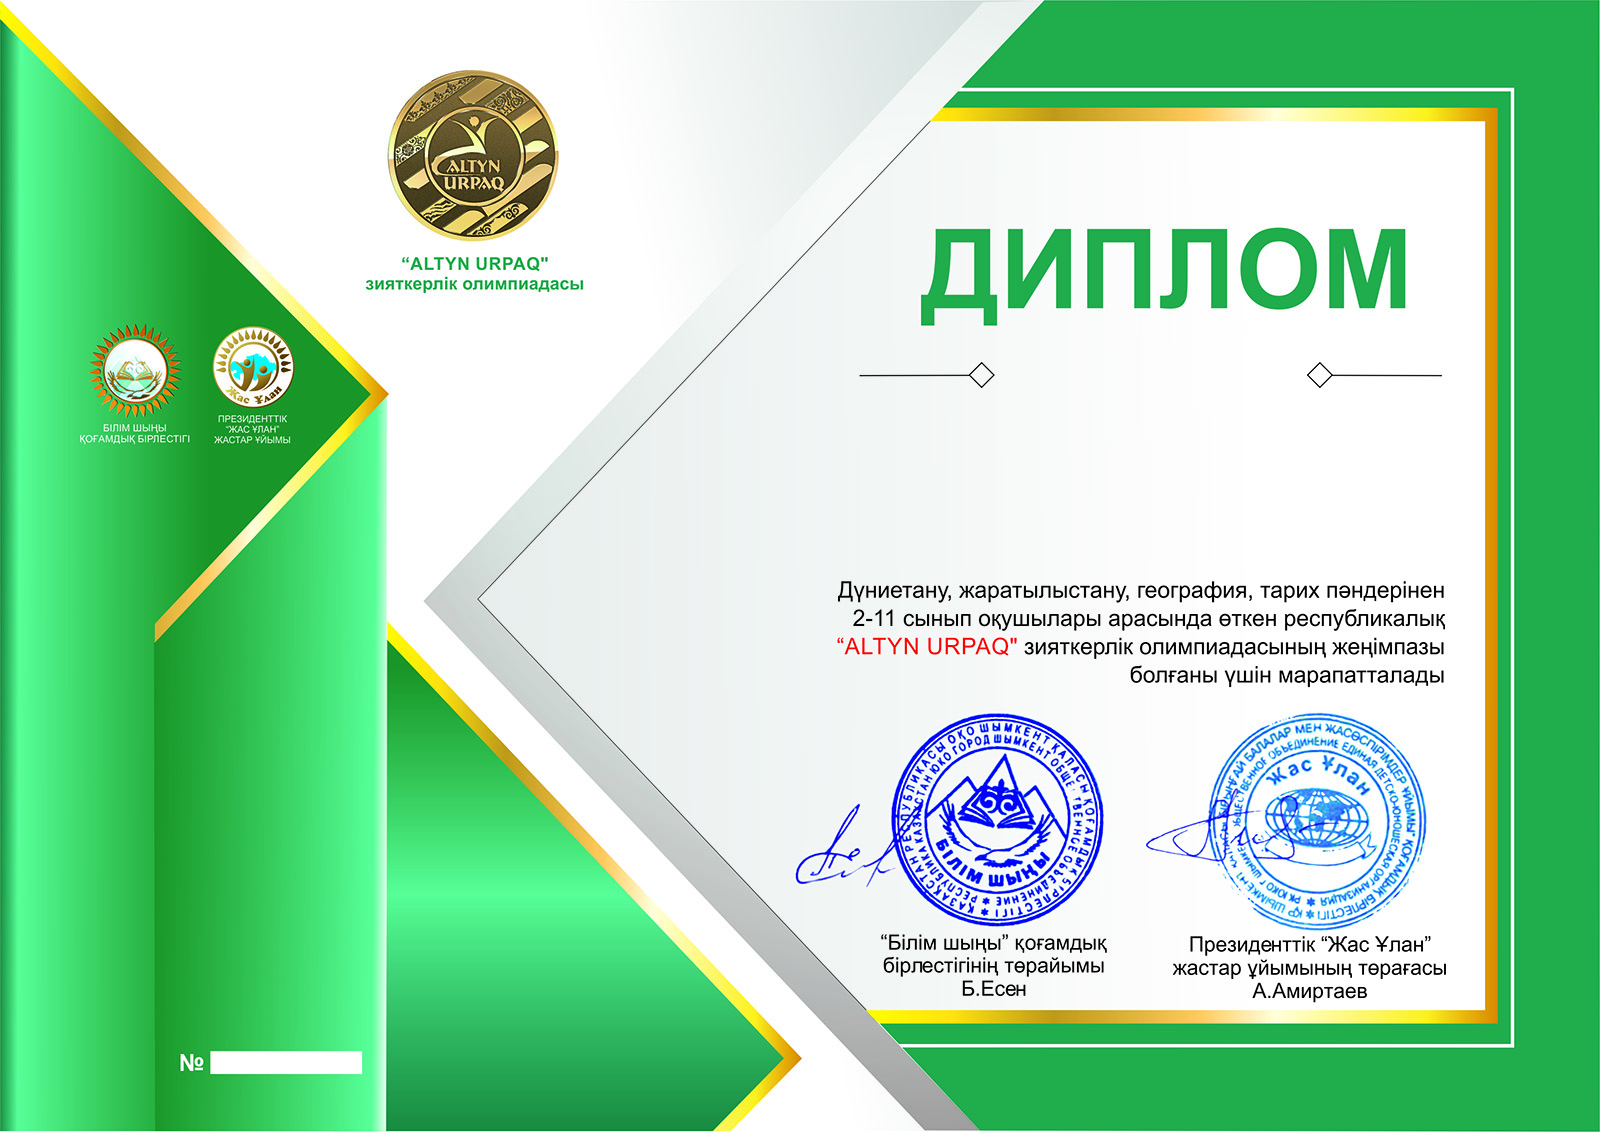
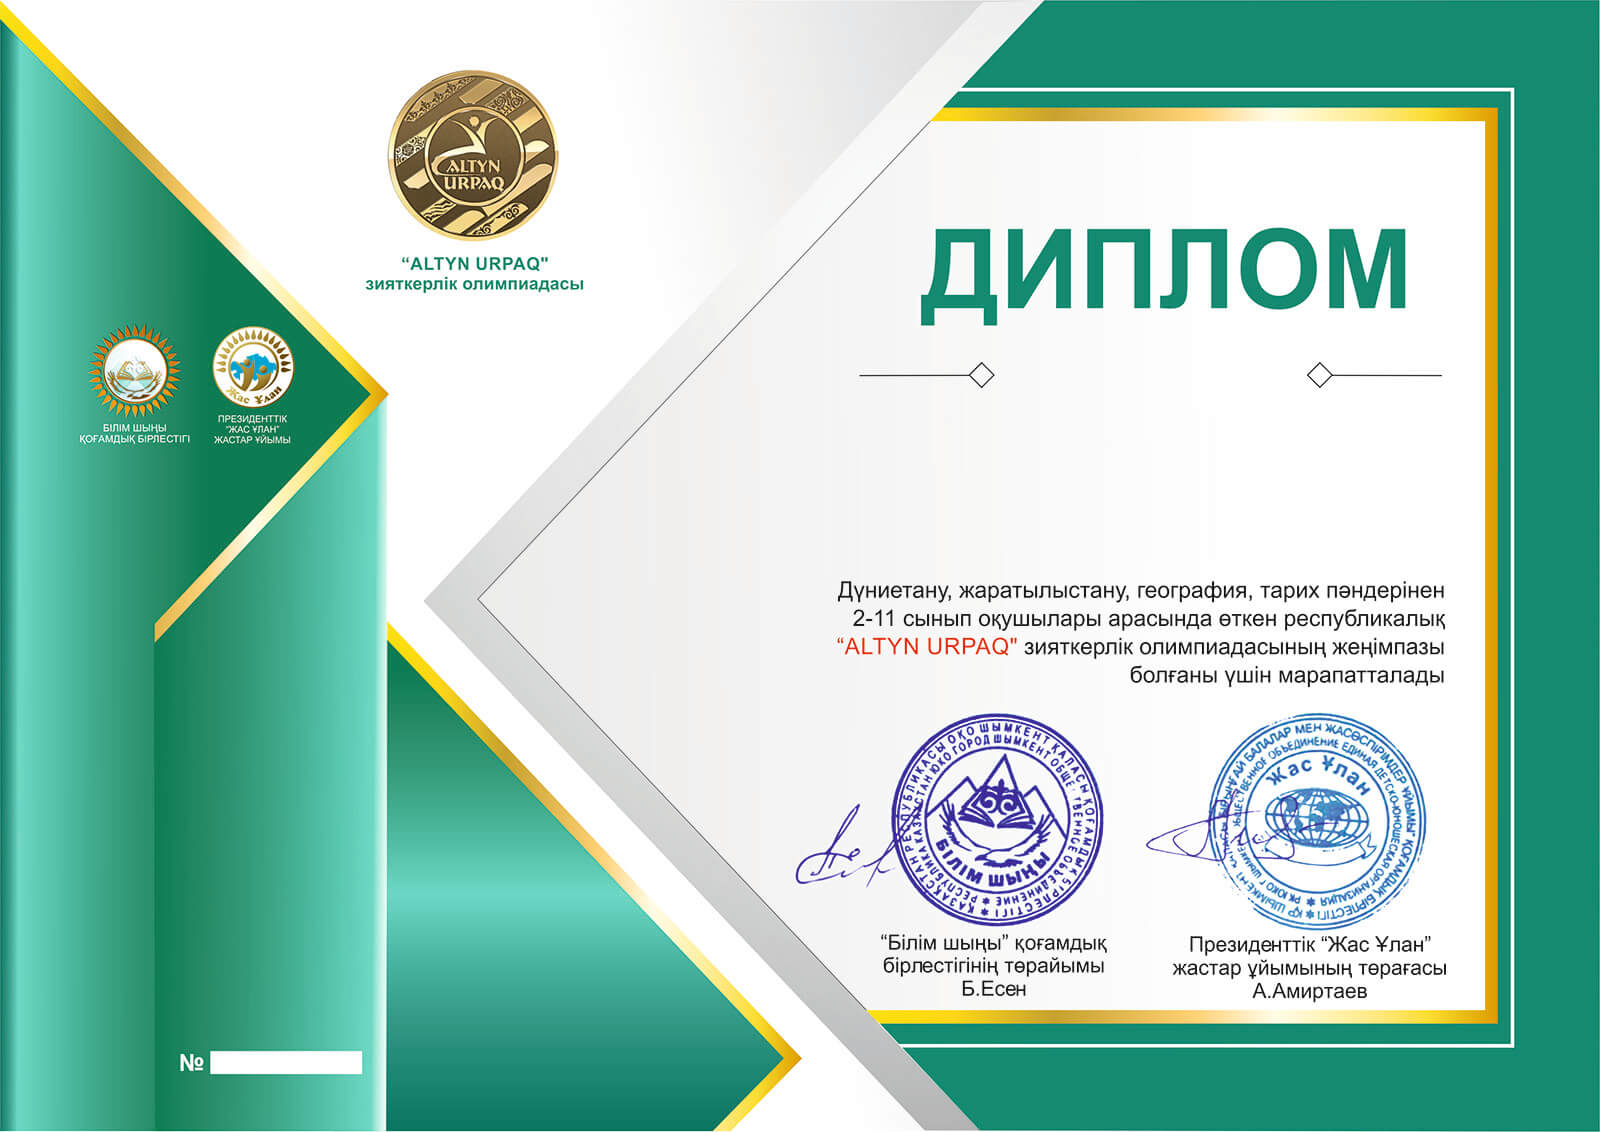
fix: olympiad fixes

diff --git a/frontend/views/article/_cert.php b/frontend/views/article/_cert.php
@@ -7,7 +7,7 @@ $qrCode = (new QrCode(\yii\helpers\Url::toRoute(['article/cert', 'id' => $model-
     ->setSize(80)
     ->setMargin(5);
 ?>
-<div class="cert-page" style="background-image: url('/img/cert.jpg'); background-size: cover; background-repeat: no-repeat; width: 1400px; font-family: 'Times New Roman';">
+<div class="cert-page" style="background-image: url('/img/article-cert.jpg'); background-size: cover; background-repeat: no-repeat; width: 1400px; font-family: 'Times New Roman';">
     <div id="cert-qrcode" style="height: 60px; padding-top: 40px; padding-right: -30px; width: 160px; font-size: 22px; float: right">
         <img src="<?= $qrCode->writeDataUri() ?>">
     </div>
